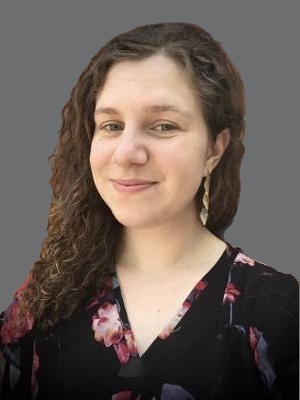
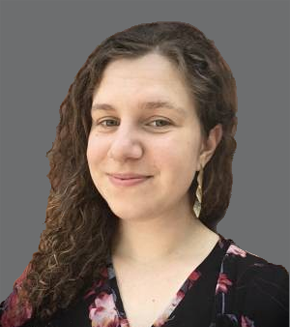
update pics, map

diff --git a/index.html b/index.html
@@ -384,7 +384,7 @@ https://templatemo.com/tm-518-sentra
                   <div class="col-md-4 text-center" id="team_member">
                     <div class="tm-about-person mx-auto">
                       <img
-                        src="img/vivian.jpg"
+                        src="img/vivian.png"
                         alt="Image"
                         class="images">
                       <h4 class="tm-text-secondary tm-mb-1">
@@ -444,7 +444,7 @@ https://templatemo.com/tm-518-sentra
                     <div class="tm-about-person mx-auto">
 
                       <img
-                        src="img/andrew.jpeg"
+                        src="img/andrew.png"
                         alt="Image"
                         class="images">
 
